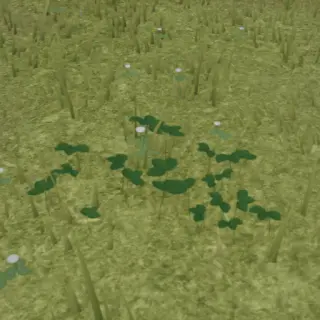
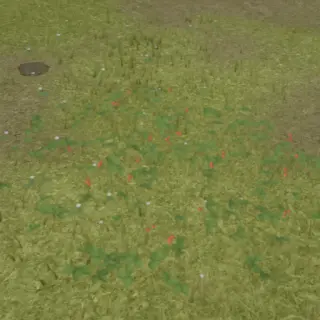
chore(bake): geometry, homestead atlas, дьэдьэн journal picture; docs

diff --git a/src/models/chores/dyedyen.js b/src/models/chores/dyedyen.js
@@ -1,4 +1,4 @@
-// Дьэдьэн (wild strawberry, Fragaria orientalis): carpets on the dry, sunny ground round the homestead, on the
+// Дьэдьэн (wild strawberry, Fragaria): carpets on the dry, sunny ground round the homestead, on the
 // slope above it and along the forest's edge. Trefoil leaves on stalks, red berries hanging from arching
 // trusses at the height of the leaves, a few white flowers and unripe berries. Instanced per region of
 // ~45 m (leaves, berries, flower trusses), drawn within sight range. Local frame: HOME.

diff --git a/docs/models.md b/docs/models.md
@@ -33,6 +33,8 @@ export default async function build(ctx, placement) {
 - Balagan: frame 5.7 × 4.7 m, khoton 5.2 × 5 m (narrower, its walls run into the house's north wall); no measured plans found in sources. Nothing crosses the dark lining or the plaster: the roof underside starts just outside the lining, ceiling poles, bark and matitsa end inside the plaster, interior parts follow `inner(F, y)` of the leaning walls; door bays lean back into the roof's underside; the passage's board sides follow the leaning wall; the berm is curbed behind the retaining logs, slumps elsewhere, and the khoton bank ends inside the house berm; sod tops are one sheet from the edge ring to the middle line; outdoor wood uses `M.outWood` / `M.doorWood` (`M.interior` gets the indoor sky cut, and `indoorAO` reads door leaves as deep indoors).
 - Uraha: ~10 m across, ~11 m to the tie (profile `CTRL` in `urasa/frame.js`; sources in its entry's notes); 12 carved posts of 2.03 m, a horsehair cord with white tassels (салама) between them, three hoops, 96 inner poles (sampled by profile bend, `poleRows`), 36 outer; door 1.0 × 1.74 m; ~125k triangles, 25 materials (viewer). The inner bark is one watertight surface; the door cut runs up inside the leaning jambs and ends inside the lintel (`DOOR.cutY`); a rolled rim closes the smoke hole; the cover runs 20 cm into the ground. Interior materials take only the fire light, the outside only the sun.
 - Chorons hold kymys (`urasa/kymys.js` `kymysSurface`): a volume (`vol`, m³) kept level as the cup tilts; past `capacity` it spills.
+- Дьэдьэн (`chores/dyedyen.js`): carpets at `PATCHES` (yard margins, the slope above, the forest's edge), each a pick target; leaves, berries and flower trusses instanced per ~45 m region, on the unrendered layer beyond 80 m (low and phones: 45 m, fewer leaves).
+- An `InstancedMesh` in a model is `userData.dynamic`: `merge.js` size-culls by one instance's bounds at the model's origin.
 - Yard props by the uraha (`yardlife` paths, `chores` pail) take its position from `layout.js` and its door radius from `urasa/frame.js` `DOOR.r`.
 
 ## Baked geometry (`src/load/geocache.js`)
